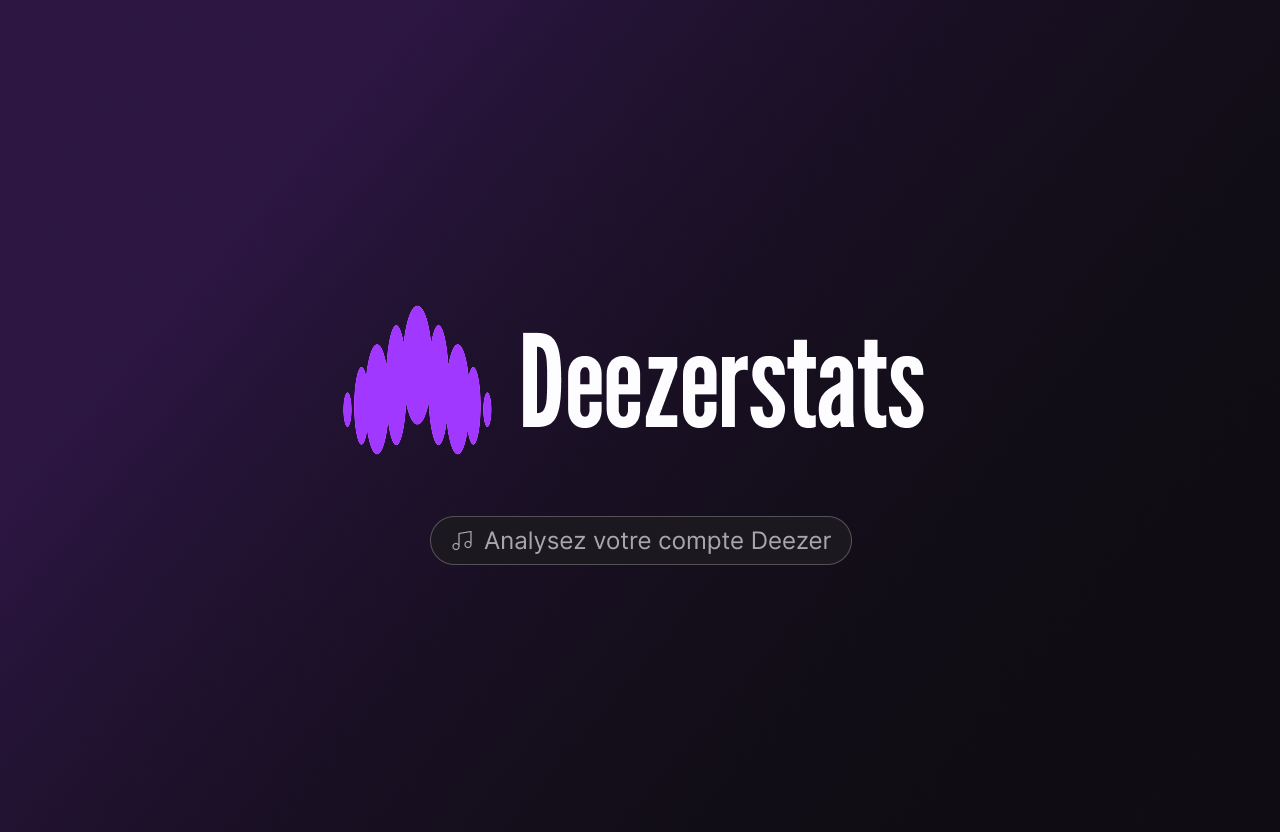
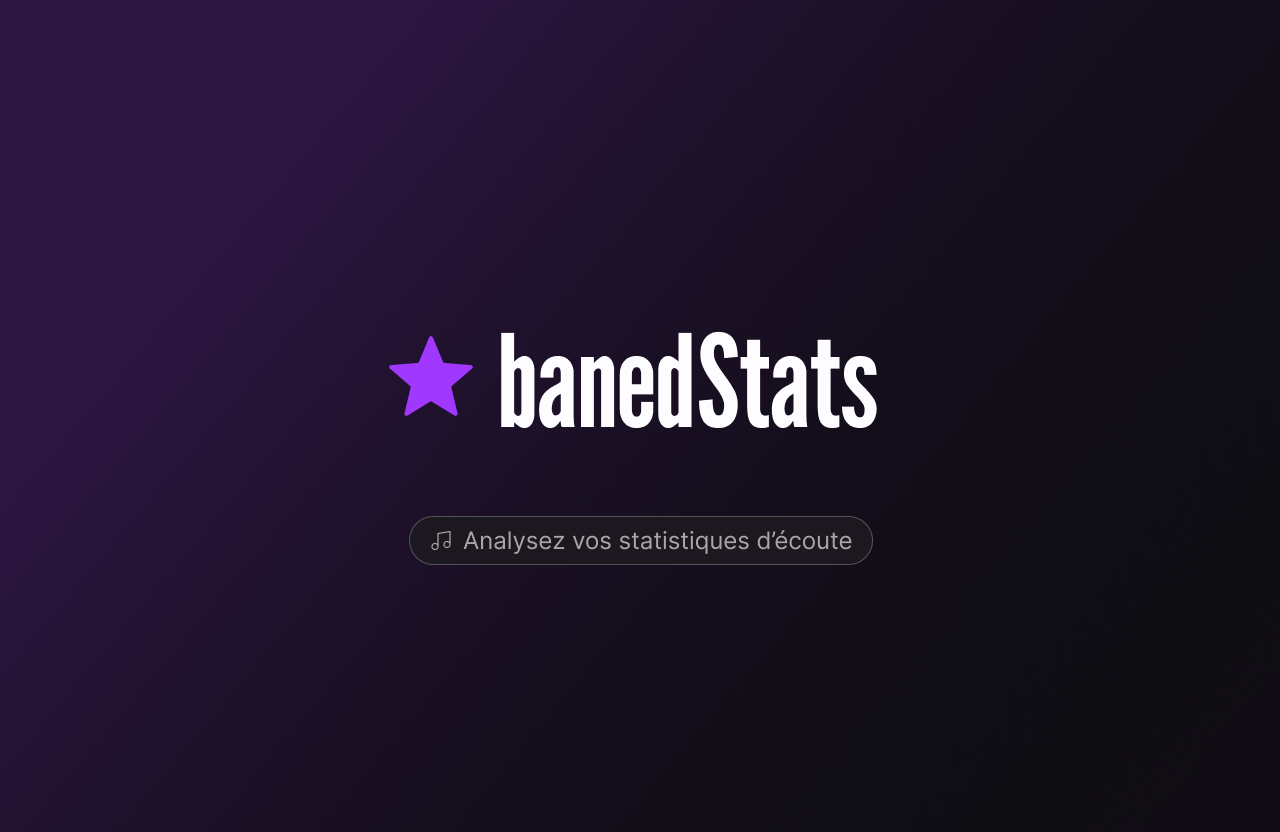
refactor(brand): rename Deezerstats to banedStats across the application, update related assets and links

Changed region(s): [[0.25, 0.375, 0.7188, 0.5625], [0.3125, 0.625, 0.6875, 0.6875]]

diff --git a/app.vue b/app.vue
@@ -1,27 +1,27 @@
 <script lang="ts" setup>
 	useHead({
-		title: 'Deezerstats',
+		title: 'banedStats',
 		link: [
 			{
 				rel: 'icon',
 				type: 'image/png',
-				href: '/deezerstats-logo.png',
+				href: '/logo.png',
 			},
 		],
 	});
 
 	useSeoMeta({
-		title: 'Deezerstats',
+		title: 'banedStats',
 		description:
 			"Découvrez vos habitudes musicales ! Analysez votre historique d'écoute Deezer et obtenez des statistiques détaillées sur toute la durée de votre compte.",
-		ogTitle: 'Deezerstats',
+		ogTitle: 'banedStats',
 		ogDescription:
 			"Découvrez vos habitudes musicales ! Analysez votre historique d'écoute Deezer et obtenez des statistiques détaillées sur toute la durée de votre compte.",
 		ogImage: '/seo.png',
-		ogUrl: 'https://deezerstats.baned.me/',
+		ogUrl: 'https://banedStats.baned.me/',
 		ogType: 'website',
 		ogLocale: 'fr_FR',
-		ogSiteName: 'Deezerstats',
+		ogSiteName: 'banedStats',
 	});
 </script>
 

diff --git a/pages/index.vue b/pages/index.vue
@@ -17,8 +17,8 @@
 				<h1
 					class="title flex w-fit scale-65 flex-row items-center gap-2 md:scale-75 lg:scale-100"
 				>
-					<NuxtImg src="/deezerstats-logo-xl.png" class="size-30" />
-					DEEZERSTATS
+					<NuxtImg src="/logo-xl.png" class="size-30" />
+					banedStats
 				</h1>
 
 				<p class="text-center text-lg text-gray-400">
@@ -55,9 +55,9 @@
 
 				<p class="text-center text-lg text-gray-400">
 					Explorez vos habitudes d'écoute sur votre parcours musical.
-					Deezerstats vous offre une analyse approfondie de vos
-					données musicales avec des outils avancés et des
-					visualisations intuitives.
+					banedStats vous offre une analyse approfondie de vos données
+					musicales avec des outils avancés et des visualisations
+					intuitives.
 				</p>
 
 				<p class="text-center text-lg text-gray-400">

diff --git a/components/base/DLogo.vue b/components/base/DLogo.vue
@@ -2,9 +2,9 @@
 
 <template>
 	<div class="logo__container">
-		<NuxtImg class="logo__img" src="/deezerstats-logo.png" />
+		<NuxtImg class="logo__img" src="/logo.png" />
 
-		<h1 class="logo__text">DEEZERSTATS</h1>
+		<h1 class="logo__text">banedStats</h1>
 	</div>
 </template>
 

diff --git a/components/common/DFooter.vue b/components/common/DFooter.vue
@@ -63,7 +63,7 @@
 
 			<li class="footer__column__item">
 				<NuxtLink
-					to="https://github.com/banedPowell/deezerstats"
+					to="https://github.com/banedPowell/banedStats"
 					target="_blank"
 				>
 					<Icon icon="mdi:github" width="14px" />

diff --git a/pages/auth/signup.vue b/pages/auth/signup.vue
@@ -4,7 +4,7 @@
 	});
 
 	useHead({
-		title: 'Deezerstats - Inscription',
+		title: 'banedStats - Inscription',
 	});
 
 	const router = useRouter();

diff --git a/pages/auth/login.vue b/pages/auth/login.vue
@@ -4,7 +4,7 @@
 	});
 
 	useHead({
-		title: 'Deezerstats - Connexion',
+		title: 'banedStats - Connexion',
 	});
 
 	const router = useRouter();

diff --git a/README.md b/README.md
@@ -1,12 +1,12 @@
-# Deezerstats
+# banedStats
 
-![Deezerstats](https://deezerstats.baned.me/seo.png)
+![banedStats](https://banedStats.baned.me/seo.png)
 
-Deezerstats is a web application that allows you to analyze your Deezer listening history.
+banedStats is a web application that allows you to analyze your Deezer listening history.
 
 ## Presentation and screenshots
 
-You can find a detailed presentation [here](https://baned.me/projects/deezerstats).
+You can find a detailed presentation [here](https://baned.me/projects/banedStats).
 
 ## Features
 
@@ -18,7 +18,7 @@ You can find a detailed presentation [here](https://baned.me/projects/deezerstat
 
 ## Live demo
 
-You can find the live demo [here](https://deezerstats.baned.me/).
+You can find the live demo [here](https://banedStats.baned.me/).
 with the following credentials:
 
 - mail: `baned@example.com`
